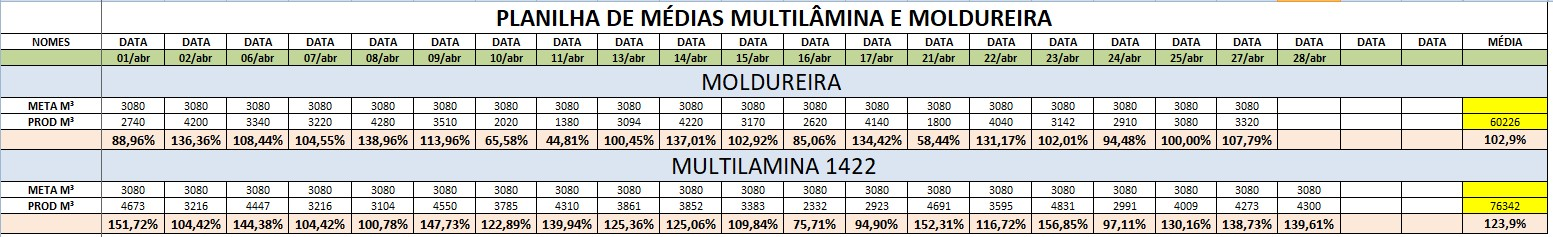
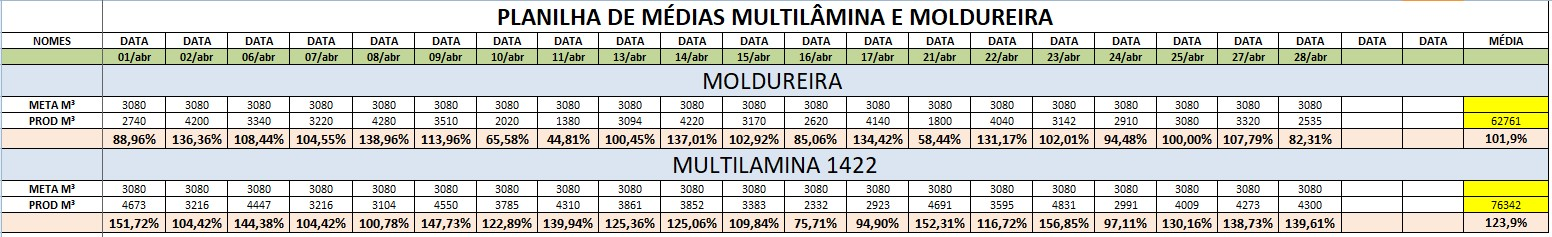
ll

Changed region(s): [[0.0, 0.0, 1.0, 1.0]]

diff --git a/back__incial.js b/back__incial.js
@@ -908,7 +908,7 @@ const unidades = {
             { data: "24/04/2026", captura: ["capturas/Unidade 2/Acabamento/2026/04-ABRIL/24 PT01.jpg", "capturas/Unidade 2/Acabamento/2026/04-ABRIL/24 PT02.jpg"] },
             { data: "25/04/2026", captura: ["capturas/Unidade 2/Acabamento/2026/04-ABRIL/25 PT01.jpg", "capturas/Unidade 2/Acabamento/2026/04-ABRIL/25 PT02.jpg"] },
             { data: "27/04/2026", captura: ["capturas/Unidade 2/Acabamento/2026/04-ABRIL/27 PT01.jpg", "capturas/Unidade 2/Acabamento/2026/04-ABRIL/27 PT02.jpg"] },
-
+            { data: "28/04/2026", captura: ["capturas/Unidade 2/Acabamento/2026/04-ABRIL/28  PT01.jpg", "capturas/Unidade 2/Acabamento/2026/04-ABRIL/28  PT02.jpg"] },
 
 
 
